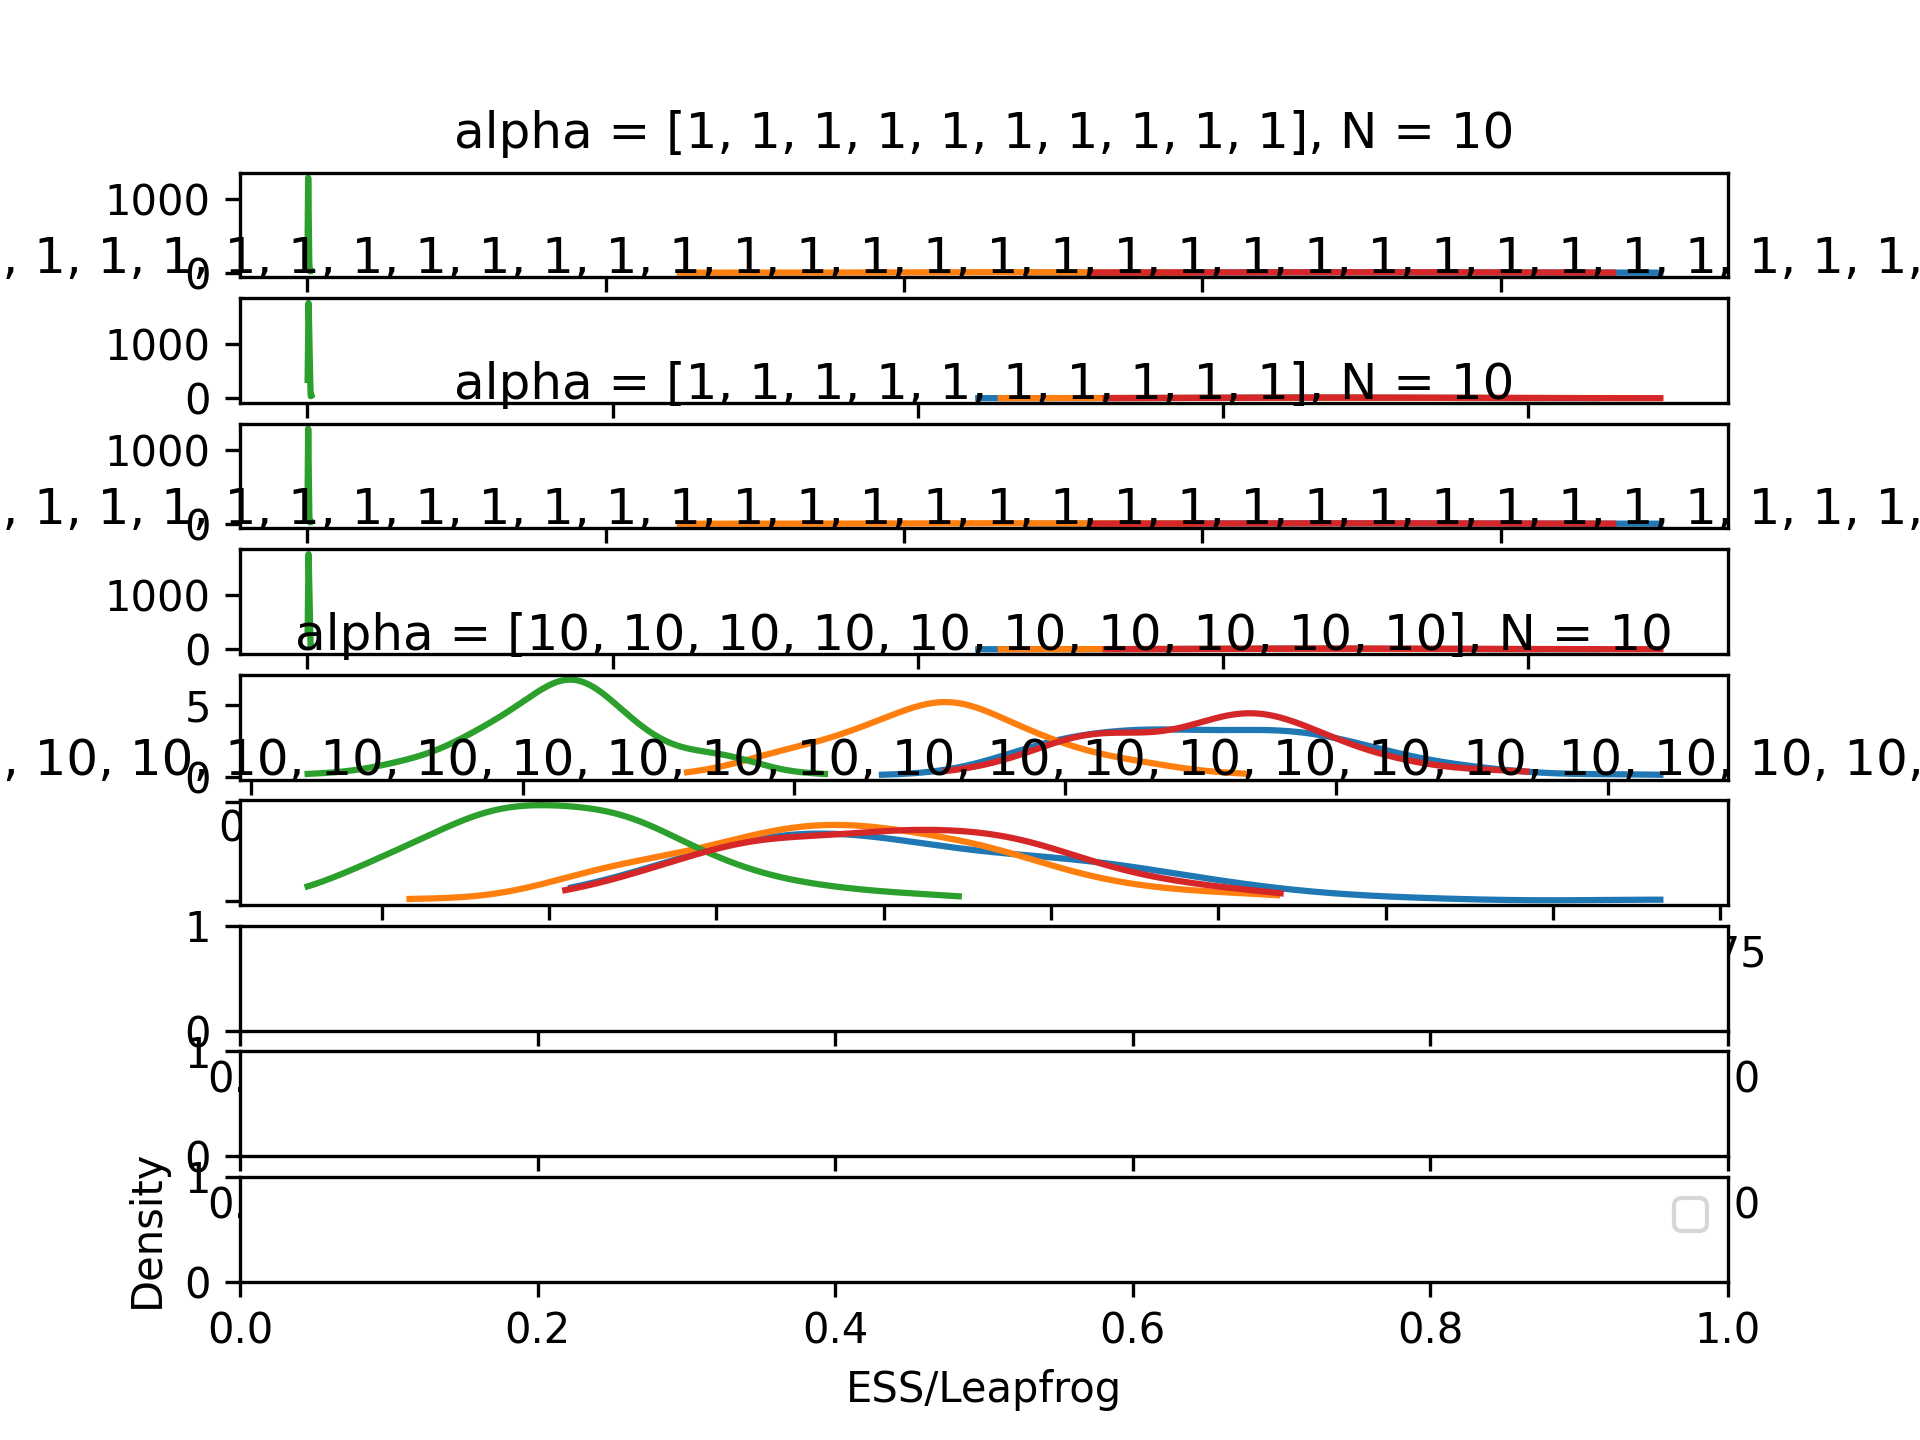
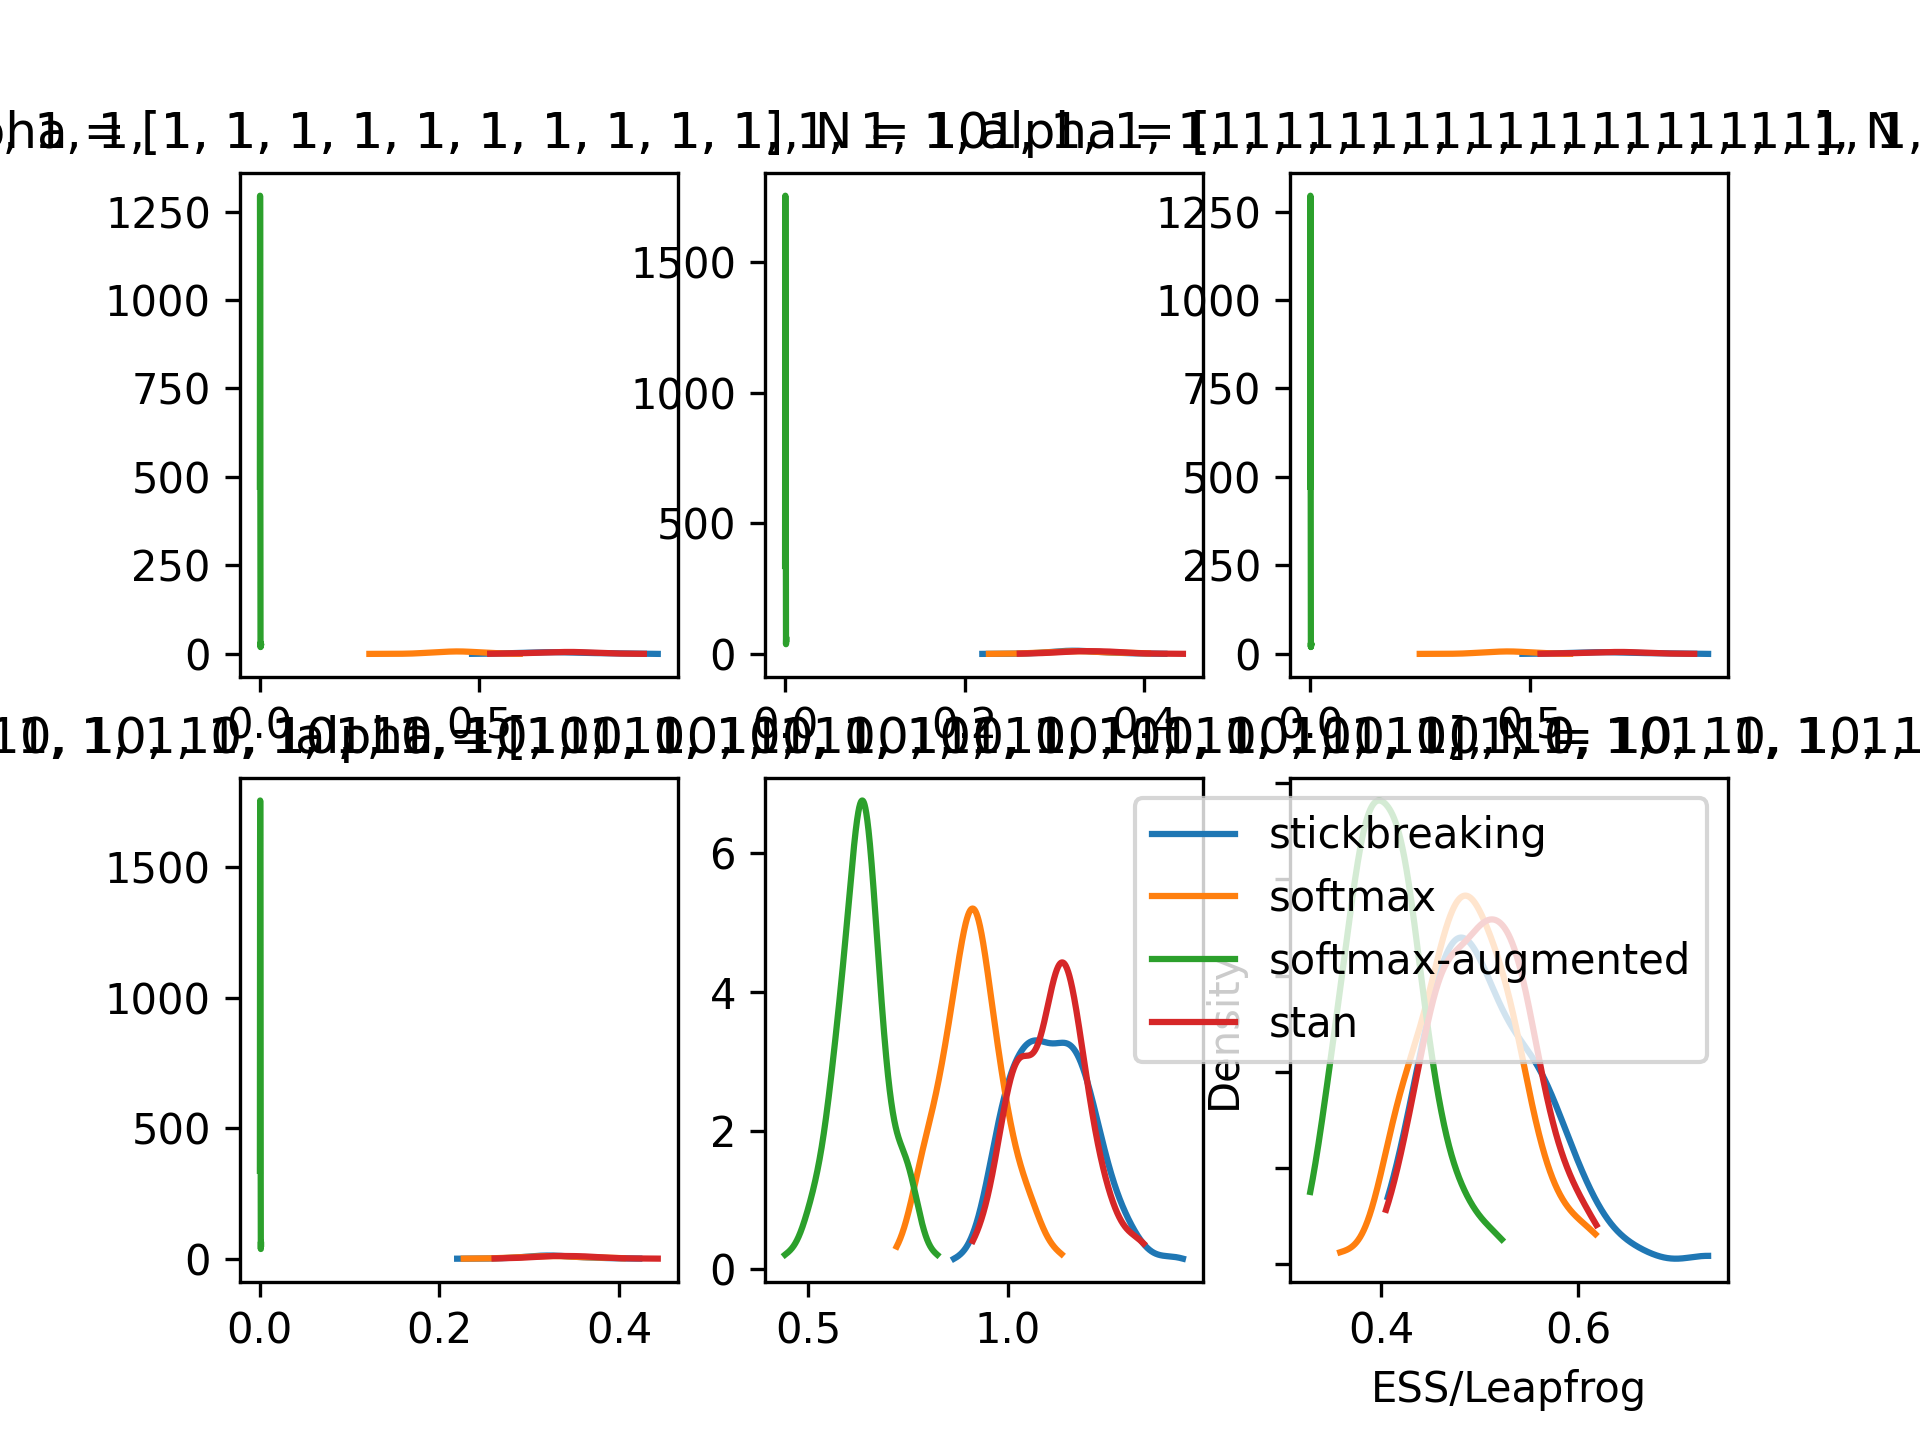
---ess-p-l-o-t

diff --git a/ess_esp.py b/ess_esp.py
@@ -23,7 +23,7 @@ var_dim=0
 
 import pickle
 
-fig, axes = plt.subplots(9)
+fig, axes = plt.subplots(2,3)
 for ax, params in zip(axes.flatten() if len(parameters)>1 else [axes],  parameters):
     for transform in transforms:
         x, y = get_ess_leapfrog_ratio(transform_category, transform, evaluating_model, params, var_name, var_dim, n_repeat=100)
